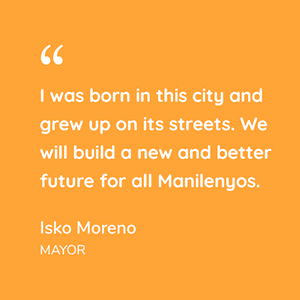
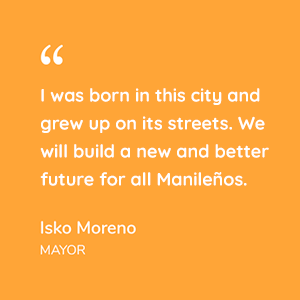
Manilenyos word update

diff --git a/src/components/HomeSection6.js b/src/components/HomeSection6.js
@@ -137,10 +137,10 @@ const items = [
   },
   {
     title: 'CNN',
-    sub: 'April, 2020',
+    sub: 'April 13, 2020',
     img: logo3,
     content:
-      'The city of Manila is now ready to conduct localized mass targeted testing for COVID-19, with the Philippine capital capable of conducting more than 1,000 swab tests weekly. Covid-19 response chief implementer Carlito Galvez described Sunday the planned aggressive testing as a “game changer” as it would be the key to the government’s plan to identify COVID-19 patients, isolate and treat them. “Hindi tayo makakaahon sa enhanced community quarantine hanngga’t hindi tayo magkakaroon ng targeted testing,” Galvez said.'
+      'The city of Manila is now ready to conduct localized mass targeted testing for COVID-19, with the Philippine capital capable of conducting more than 1,000 swab tests weekly. Covid-19 response chief implementer Carlito Galvez described Sunday the planned aggressive testing as a “game changer” as it would be the key to the government’s plan to identify COVID-19 patients, isolate and treat them. '
   }
 ];
 

diff --git a/src/components/CovidSection2.js b/src/components/CovidSection2.js
@@ -54,7 +54,7 @@ const DisplayFlex = styled.div`
   padding: 20px 15px;
   height: 100%;
   /* align-items: center; */
-  
+
   @media (max-width: 768px) {
     grid-gap: 30px;
   }
@@ -113,7 +113,7 @@ const CovidSection2 = () => {
               Digital Health Survey.
             </p>
             <p>
-              This helpful tool provides Manilenos and Filipinos with an easy
+              This helpful tool provides Manileños and Filipinos with an easy
               and accessible means to think objectively about their health
               within the Covid-19 context.
             </p>
